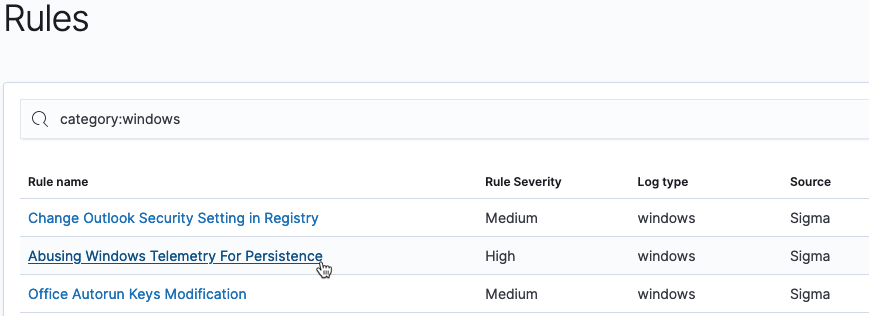
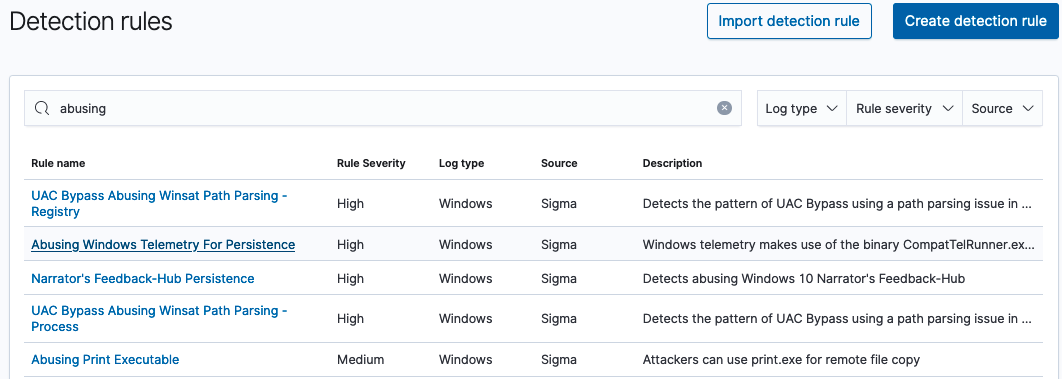
fix#4413 detection rule updates

Changed region(s): [[0.0, 0.1994, 1.0, 1.0], [0.6525, 0.0, 1.0, 0.1139], [0.0, 0.0, 0.1864, 0.1139]]

diff --git a/_security-analytics/usage/rules.md b/_security-analytics/usage/rules.md
@@ -126,20 +126,12 @@ When the **Create detection rule** window opens, the **Visual Editor** is displa
   
 #### The YAML Editor
 
-The **Create detection rule** window also contains the YAML Editor so that you can create a new rule directly in a YAML file format. Select **YAML Editor** and then enter information for the pre-populated field types. The rule's `id` is provided and assigned when the rule is saved.
-
-To assist in rule creation using the **YAML Editor**, you can refer to Sigma's [Rule Creation Guide](https://github.com/SigmaHQ/sigma/wiki/Rule-Creation-Guide) and use the descriptions of each field to learn more about defining the rule.
-
-
-### Importing rules
-
-Security Analytics also supports the import of Sigma rules in YAML format. The following example file shows the basic formatting of a rule in YAML.
+The **Create detection rule** window also contains the YAML Editor so that you can create a new rule directly in a YAML file format. Select **YAML Editor** and then enter information for the pre-populated field types. The rule's `id` is provided and assigned when the rule is saved. The following example shows the basic elements of a typical rule:
 
 ```yml
 title: RDP Sensitive Settings Changed
 logsource:
   product: windows
-  service: system
 description: 'Detects changes to RDP terminal service sensitive settings'
 detection:
   selection:
@@ -169,18 +161,25 @@ status: experimental
 ```
 {% include copy.html %}
 
-1. To begin, select the **Import rule** button in the upper-right corner of the page. The Import rule page opens.
-1. Either drag a YAML-formatted Sigma rule into the window or browse for the file by selecting the link and opening it. The Import a rule window opens and the rule definition fields are automatically populated in both the Visual Editor and YAML Editor.
+To assist in rule creation using the **YAML Editor**, you can refer to Sigma's [Rule Creation Guide](https://github.com/SigmaHQ/sigma/wiki/Rule-Creation-Guide) and use the descriptions of each field to learn more about defining the rule.
+
+
+### Importing rules
+
+Security Analytics also supports the import of Sigma rules in YAML format. In the **Detection rules** window, follow these steps to import a rule.
+
+1. To begin, select **Import detection rule** in the upper-right corner of the page. The **Import rule** page opens.
+1. Either drag a YAML-formatted Sigma rule into the window or browse for the file by selecting the link and opening it. The **Import a rule** window opens and the rule definition fields are automatically populated in both the Visual Editor and YAML Editor.
 1. Verify or modify the information in the fields.
-1. After you confirm the information for the rule is accurate, select the **Create** button in the lower-right corner of the window. A new rule is created, and it appears in the list of rules on the main page of the Rules window.
+1. After you confirm that the information for the rule is accurate, select the **Create** button in the lower-right corner of the window. A new rule is created and it appears in the list of detection rules.
 
 ### Customizing rules
 
-Another option for creating a new detection rule is duplicating a Sigma rule and then modifying it to create a custom rule. First search for or filter rules in the Rules list to locate the rule you want to duplicate.
+Another option for creating a new detection rule is duplicating a Sigma rule and then modifying it to create a custom rule. First search for or filter rules in the **Rule name** list to locate the rule you want to duplicate.
 
 <img src="{{site.url}}{{site.baseurl}}/images/Security/rules-dup1.png" alt="Selecting a rule in the Rules name list" width="75%">
 
-1. To begin, select the rule in the Rule name column. The rule details pane opens.
+1. To begin, select the rule in the **Rule name** column. The rule details pane opens.
 
     <img src="{{site.url}}{{site.baseurl}}/images/Security/rule-dup2.png" alt="Opening the rule details pane" width="50%">
 

diff --git a/_security-analytics/usage/index.md b/_security-analytics/usage/index.md
@@ -10,12 +10,12 @@ redirect_from:
 
 # Using Security Analytics
 
-After creating detectors and generating findings, functionality within the several Security Analytics windows offers visualizations and tools to help you investigate and manage findings, create focused alerts and notifications, import or customize rules, and edit detectors, among other tasks. This section discusses available features, their uses, and general navigation while working in the various windows. You can use the links below to go directly to information on a specific window.
+After creating detectors and generating findings, functionality within the several Security Analytics windows offers visualizations and tools to help you investigate and manage findings, create focused alerts and notifications, import or customize rules, and edit detectors, among other tasks. This section discusses available features, their uses, and general navigation while working in the various windows. You can use the following links to go directly to information on a specific window.
 
 * [The Overview page]({{site.url}}{{site.baseurl}}/security-analytics/usage/overview/)
 * [Working with detectors]({{site.url}}{{site.baseurl}}/security-analytics/usage/detectors/)
 * [Working with findings]({{site.url}}{{site.baseurl}}/security-analytics/usage/findings/)
-* [Working with rules]({{site.url}}{{site.baseurl}}/security-analytics/usage/rules/)
+* [Working with detection rules]({{site.url}}{{site.baseurl}}/security-analytics/usage/rules/)
 * [Working with the correlation graph]({{site.url}}{{site.baseurl}}/security-analytics/usage/correlation-graph/)
 * [Working with alerts]({{site.url}}{{site.baseurl}}/security-analytics/usage/alerts/)
 
